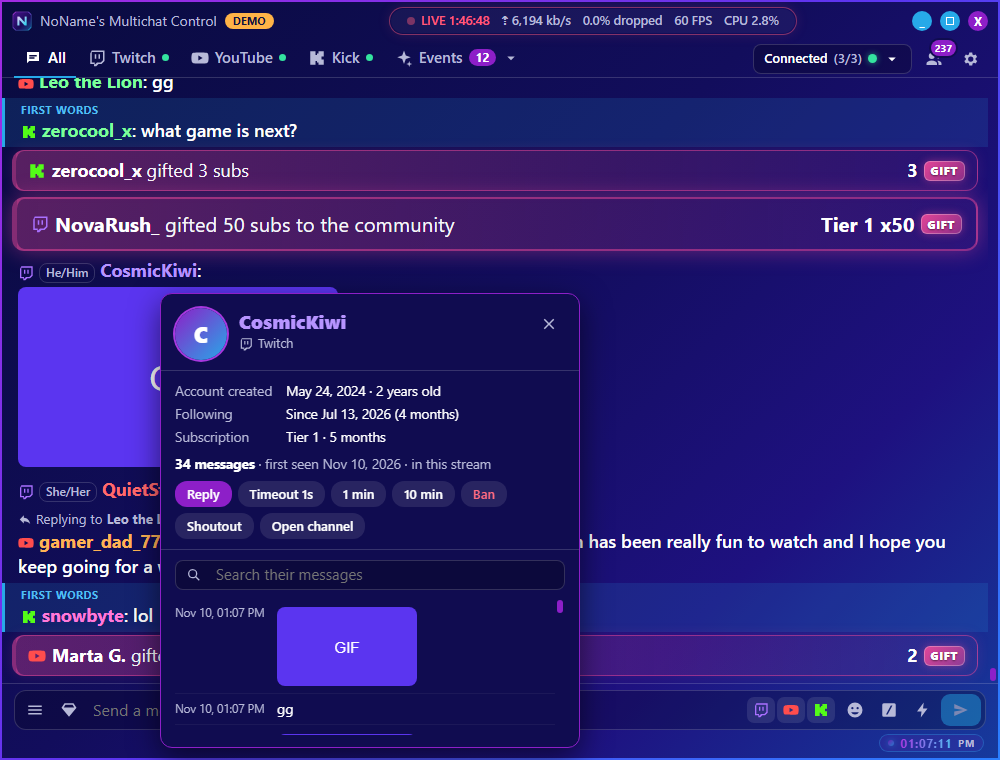
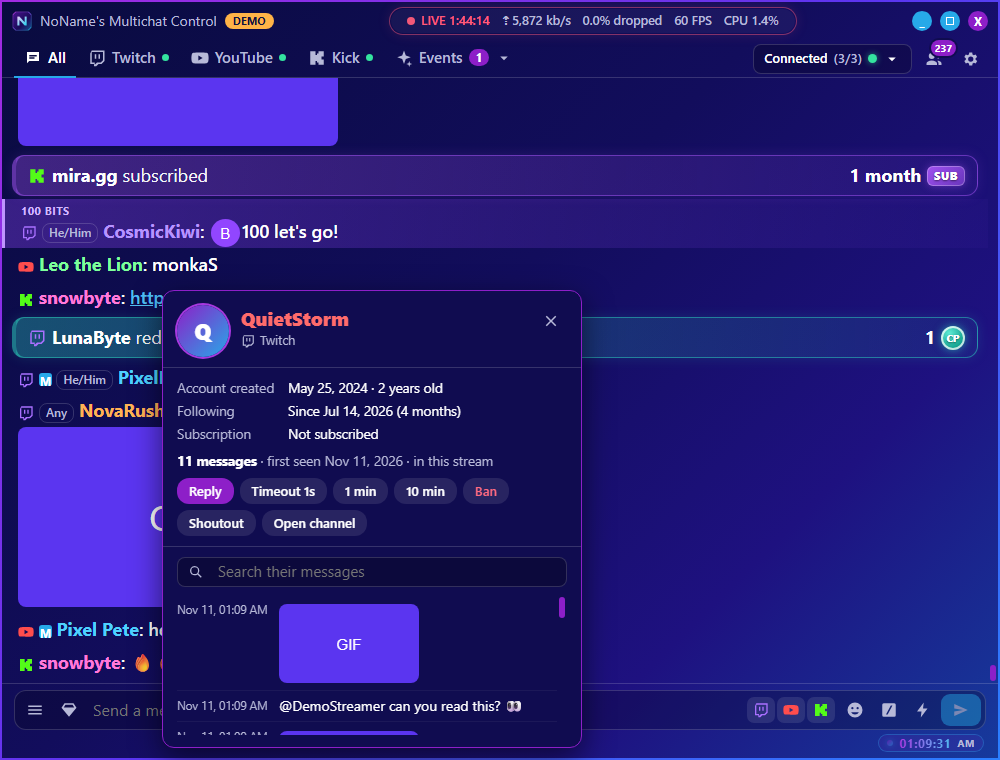
Version 0.2.2: tag highlights, YouTube login for everyone, tray fix
New
- Messages that tag the streamer (@login, @display name, YouTube @handle
  or channel name, Kick username) get a band in their platform's colour:
  purple Twitch, red YouTube, green Kick. Connectors report the names as
  ConnectionState.mentions; ui/lib/mentions.ts matches whole words in any
  letter case and skips the streamer's own messages
- Demo chatters tag @DemoStreamer now and then
- The website shows the latest version, read from GitHub's releases

Fixed
- X set to "Minimize to tray" could stop hiding the window: tao only acts
  when its own visible flag changes, and that flag could drift from the
  real window. set_shown() checks is_visible() on the main thread and
  resyncs, logging when it had to
- A YouTube decline now explains Advanced > Go to MultichatControl

Docs: README explains Google's "unverified app" notice and the 100-user
limit, new screenshots and tour, privacy page mentions turning saved chat
off. Thanks to Zayso for reporting the blocked YouTube login.

diff --git a/docs/index.html b/docs/index.html
@@ -27,14 +27,15 @@
       <p class="lead">Read and write Twitch, YouTube and Kick chat together, see every event as it happens, and run channel actions in one click. A free, open-source Windows app for streamers who go live on several platforms at once.</p>
       <a class="btn" href="https://github.com/nnfisfree/multichat-control/releases/latest">Download for Windows</a>
       <a class="btn ghost" href="privacy/">Privacy Policy</a>
-      <img class="shot" src="media/chat.png" width="1000" height="760" alt="MultichatControl showing Twitch, YouTube and Kick chat merged in one window, with event cards and OBS stats" />
+      <p class="version">Latest version: <a id="version" href="https://github.com/nnfisfree/multichat-control/releases/latest">0.2.2</a></p>
+      <img class="shot" src="media/chat.png" width="1000" height="760" alt="MultichatControl showing Twitch, YouTube and Kick chat merged in one window, with event cards, a highlighted message that tags the streamer, and OBS stats" />
       <p class="muted">Shown in demo mode, with invented chatters.</p>
     </div>
 
     <section>
       <h2>What it does</h2>
       <div class="grid">
-        <div class="card"><h3>💬 One merged chat</h3>Twitch, YouTube and Kick together, with a tab for each. Reply, and choose exactly where each message goes.</div>
+        <div class="card"><h3>💬 One merged chat</h3>Twitch, YouTube and Kick together, with a tab for each. Messages that tag you are highlighted in their platform's colour. Reply, and choose exactly where each message goes.</div>
         <div class="card"><h3>⚡ Every event</h3>Subscriptions, memberships, Super Chats, gifts, raids, redemptions and donations in one list.</div>
         <div class="card"><h3>🛡 Moderation</h3>Delete messages, time out or ban on every platform, in one click.</div>
         <div class="card"><h3>🎨 Made for live</h3>OBS stats in the title bar, eight colour skins, an emote picker and a clock.</div>
@@ -73,5 +74,17 @@
     <a href="https://nonamefound.lol">Store</a>
   </footer>
 </div>
+<script>
+  // Shows the newest release, so this page never needs editing after a release.
+  fetch('https://api.github.com/repos/nnfisfree/multichat-control/releases/latest')
+    .then((r) => (r.ok ? r.json() : null))
+    .then((r) => {
+      if (!r || !r.tag_name) return
+      const el = document.getElementById('version')
+      el.textContent = r.tag_name.replace(/^v/, '')
+      el.href = r.html_url
+    })
+    .catch(() => {})
+</script>
 </body>
 </html>

diff --git a/engine/platforms/youtube/connector.ts b/engine/platforms/youtube/connector.ts
@@ -16,6 +16,7 @@ export class YouTubeConnector implements Connector {
   readonly platform = 'youtube' as const
   private loggedIn = false
   private channelName = ''
+  private mentions: string[] = []
   private liveChatId = ''
   private run = 0
   private cancelStream: (() => void) | null = null
@@ -43,7 +44,10 @@ export class YouTubeConnector implements Connector {
     this.loggedIn = true
     this.ctx.status({ status: 'connecting' })
     const me = await this.api('GET', '/channels', { part: 'snippet', mine: 'true' })
-    this.channelName = me.items?.[0]?.snippet?.title ?? 'YouTube'
+    const mine = me.items?.[0]?.snippet
+    this.channelName = mine?.title ?? 'YouTube'
+    // Viewers tag a channel by its @handle (customUrl), or sometimes by its name.
+    this.mentions = [String(mine?.customUrl ?? '').replace(/^@/, ''), mine?.title ?? ''].filter(Boolean)
     void this.loop(++this.run)
     void this.loadPastBroadcasts()
   }
@@ -102,17 +106,17 @@ export class YouTubeConnector implements Connector {
         this.broadcastId = r.items?.[0]?.id ?? ''
         if (!id) {
           this.liveChatId = ''
-          this.ctx.status({ status: 'waiting', account: this.channelName, detail: 'Waiting for a live broadcast' })
+          this.ctx.status({ status: 'waiting', account: this.channelName, mentions: this.mentions, detail: 'Waiting for a live broadcast' })
           await sleep(OFFLINE_CHECK_MS)
           continue
         }
         this.liveChatId = id
-        this.ctx.status({ status: 'connected', account: this.channelName })
+        this.ctx.status({ status: 'connected', account: this.channelName, mentions: this.mentions })
         await this.follow(id, run)
       } catch (err) {
         if (run !== this.run) return
         const quota = err instanceof HttpError && /quota/i.test(err.message)
-        this.ctx.status({ status: 'reconnecting', account: this.channelName, detail: quota ? 'YouTube daily quota used up. It resets at midnight Pacific Time.' : message(err) })
+        this.ctx.status({ status: 'reconnecting', account: this.channelName, mentions: this.mentions, detail: quota ? 'YouTube daily quota used up. It resets at midnight Pacific Time.' : message(err) })
         await sleep(quota ? 600000 : 30000)
       }
     }

diff --git a/engine/platforms/kick/connector.ts b/engine/platforms/kick/connector.ts
@@ -17,6 +17,7 @@ export class KickConnector implements Connector {
   private userId = 0
   private slug = ''
   private name = ''
+  private mentions: string[] = []
   private socket: KickSocket | null = null
   private found: KickChannel | null = null
   private third: EmoteLookup = new Map()
@@ -50,12 +51,13 @@ export class KickConnector implements Connector {
     this.userId = user?.user_id ?? channel?.broadcaster_user_id
     this.slug = channel?.slug ?? user?.name
     this.name = user?.name ?? this.slug
+    this.mentions = [this.slug, this.name].filter(Boolean)
     await this.connectSocket(++this.run)
   }
 
   private async connectSocket(run: number): Promise<void> {
     try {
-      this.ctx.status({ status: 'connecting', account: this.name, detail: 'Reading Kick channel' })
+      this.ctx.status({ status: 'connecting', account: this.name, mentions: this.mentions, detail: 'Reading Kick channel' })
       const d = await fetchChannel(this.slug)
       if (run !== this.run) return
       this.found = d
@@ -65,13 +67,13 @@ export class KickConnector implements Connector {
       const channels = [`chatrooms.${d.chatroomId}.v2`, `chatrooms.${d.chatroomId}`, `chatroom_${d.chatroomId}`, `channel.${d.channelId}`, `channel_${d.channelId}`]
       this.socket = new KickSocket(fetchRealtime, channels, {
         onEvent: (name, data) => this.onEvent(name, data),
-        onState: (s, detail) => this.ctx.status({ status: s, account: this.name, detail })
+        onState: (s, detail) => this.ctx.status({ status: s, account: this.name, mentions: this.mentions, detail })
       })
       this.socket.start()
       void this.emotes()
     } catch (err) {
       if (run !== this.run) return
-      this.ctx.status({ status: 'reconnecting', account: this.name, detail: `Kick read failed: ${message(err)} Sending still works.` })
+      this.ctx.status({ status: 'reconnecting', account: this.name, mentions: this.mentions, detail: `Kick read failed: ${message(err)} Sending still works.` })
       await sleep(30000)
       if (run === this.run) await this.connectSocket(run)
     }

diff --git a/ui/components/ChatRow.tsx b/ui/components/ChatRow.tsx
@@ -3,6 +3,7 @@ import { plainText } from '../../shared/parts'
 import type { ChatMessage, MessagePart } from '../../shared/types'
 import { Icon, PlatformIcon } from './Icons'
 import { useStore } from '../lib/store'
+import { mentionsStreamer } from '../lib/mentions'
 import { EventCard } from './EventCard'
 
 function Part({ p }: { p: MessagePart }): JSX.Element {
@@ -58,10 +59,12 @@ interface Props {
 /** Chat text is rendered only through React text nodes, so messages cannot inject markup. */
 export const ChatRow = memo(function ChatRow({ m, showPlatform, showTime, onMenu }: Props): JSX.Element {
   const pronoun = useStore((s) => (s.settings?.showPronouns && m.platform === 'twitch' && m.author.login ? s.pronouns[m.author.login] : undefined))
+  // Messages that tag the streamer stand out, in the colour of the platform they came from.
+  const tagged = useStore((s) => mentionsStreamer(m, s.statuses[m.platform]?.mentions))
   if (m.divider) return <div className="history-divider" role="separator"><span>{m.divider}</span></div>
   if (m.event) return <div className="row kind-event"><EventCard e={m.event} /></div>
   return (
-    <div className={`row kind-${m.kind}${m.firstTime ? ' first' : ''}${m.effect ? ` effect-${m.effect}` : ''}`} onContextMenu={(e) => onMenu(e, m)}>
+    <div className={`row kind-${m.kind}${m.firstTime ? ' first' : ''}${m.effect ? ` effect-${m.effect}` : ''}${tagged ? ` mention mention-${m.platform}` : ''}`} onContextMenu={(e) => onMenu(e, m)}>
       {m.reply && (
         <div className="reply"><Icon.reply /> Replying to <b>{m.reply.author}</b>: {m.reply.text}</div>
       )}

diff --git a/engine/demo.ts b/engine/demo.ts
@@ -44,7 +44,7 @@ const LINES = [
   'dude haha', 'that was insane', 'nnfHype nnfHype nnfHype', 'gg', 'KEKW', 'catJAM catJAM', 'what game is next?',
   'first time here, love the stream', 'https://example.com/clip check this out', 'PogChamp that play', 'lol', 'KICKHYPE lets go',
   'how long have you been streaming today? this run has been really fun to watch and I hope you keep going for a while',
-  '🔥🔥🔥', 'monkaS', 'hello from the demo!'
+  '🔥🔥🔥', 'monkaS', 'hello from the demo!', '@DemoStreamer can you read this? 👀', '@demostreamer what are your settings?'
 ]
 const COLORS = ['#4fd1ff', '#ff7ad9', '#7dff9b', '#ffb454', '#b794ff', '#ff6b6b']
 
@@ -153,7 +153,7 @@ export class DemoConnector implements Connector {
     // Platforms connect one after another, as they do for real, so the progress bar shows.
     this.ctx.status({ status: 'connecting' })
     const order = ['twitch', 'youtube', 'kick'].indexOf(this.platform)
-    this.timers.push(setTimeout(() => this.ctx.status({ status: 'connected', account: 'DemoStreamer' }), 2500 + order * 1800))
+    this.timers.push(setTimeout(() => this.ctx.status({ status: 'connected', account: 'DemoStreamer', mentions: ['DemoStreamer'] }), 2500 + order * 1800))
     // The streamer testing their own reward, so the TEST tag and Clear menu have something to show.
     if (this.platform === 'twitch') {
       this.timers.push(setTimeout(() => this.ctx.event({

diff --git a/ui/styles/theme.css b/ui/styles/theme.css
@@ -136,6 +136,12 @@ h2, h3 { margin: 0; }
 .row.kind-cheer .tag { color: #d2b8ff; }
 .row.kind-highlight { background: rgba(var(--purple-rgb), 0.3); border-left: 3px solid var(--purple-2); }
 .row.kind-highlight .tag { color: #e0a8ff; }
+/* A viewer tagged the streamer: a soft band in the platform's own colour, fading out so the skin
+   still shows through, and a solid stripe on the left. */
+.row.mention { --pf: var(--twitch); background: linear-gradient(90deg, color-mix(in srgb, var(--pf) 24%, transparent), color-mix(in srgb, var(--pf) 7%, transparent) 75%); border-left: 3px solid var(--pf); box-shadow: inset 0 1px 0 color-mix(in srgb, var(--pf) 18%, transparent), inset 0 -1px 0 color-mix(in srgb, var(--pf) 18%, transparent); }
+.row.mention-youtube { --pf: var(--youtube); }
+.row.mention-kick { --pf: var(--kick); }
+.row.mention:hover { background: linear-gradient(90deg, color-mix(in srgb, var(--pf) 32%, transparent), color-mix(in srgb, var(--pf) 11%, transparent) 75%); }
 .row.effect-message-effect { background: linear-gradient(90deg, rgba(var(--blue-rgb), 0.28), rgba(var(--purple-rgb), 0.28)); }
 .row.effect-giant .emote:last-of-type { height: 5em; margin: 2px 2px; }
 .gif { display: block; max-width: min(320px, 100%); max-height: 200px; margin: 4px 0 2px; border-radius: 8px; }

diff --git a/engine/platforms/twitch/connector.ts b/engine/platforms/twitch/connector.ts
@@ -32,6 +32,7 @@ export class TwitchConnector implements Connector {
   private userId = ''
   private login_ = ''
   private displayName = ''
+  private mentions: string[] = []
   private sub: EventSub | null = null
   private badges = new Map<string, Badge>()
   private third: EmoteLookup = new Map()
@@ -90,13 +91,14 @@ export class TwitchConnector implements Connector {
     this.login_ = who.login
     const users = await this.helix('GET', '/users', { id: who.user_id })
     this.displayName = users.data?.[0]?.display_name ?? who.login
+    this.mentions = [who.login, this.displayName]
     this.avatar = smallAvatar(users.data?.[0]?.profile_image_url)
     this.emoteCache = await loadEmoteCache(`twitch-${who.user_id}`)
     await Promise.all([this.loadBadges(), this.loadThirdParty(), this.loadManageable(), this.loadCheers()])
     this.sub = new EventSub({
       onSession: (id) => this.subscribeAll(id),
       onNotification: (type, id, e) => this.onEvent(type, id, e),
-      onState: (s, detail) => this.ctx.status({ status: s, account: this.displayName, detail })
+      onState: (s, detail) => this.ctx.status({ status: s, account: this.displayName, mentions: this.mentions, detail })
     })
     this.sub.start()
     if (this.checkTimer) clearInterval(this.checkTimer)

diff --git a/docs/privacy/index.html b/docs/privacy/index.html
@@ -54,7 +54,7 @@
           <thead><tr><th>What</th><th>Why</th><th>How long</th></tr></thead>
           <tbody>
             <tr><td>Your login (access and refresh tokens)</td><td>So you stay logged in</td><td>Until you log out. Encrypted with Windows' own data protection, so only your Windows account can read it</td></tr>
-            <tr><td>Chat of your recent streams (names and messages from your chat)</td><td>So you can read what you missed, and see what a viewer said before</td><td>The last 5 streams. Older streams are deleted automatically</td></tr>
+            <tr><td>Chat of your recent streams (names and messages from your chat)</td><td>So you can read what you missed, and see what a viewer said before</td><td>The last 5 streams. Older streams are deleted automatically. You can turn this off in Settings → Chat</td></tr>
             <tr><td>Recent events (subs, gifts, Super Chats, donations…)</td><td>The Events list</td><td>Until you clear them in the app</td></tr>
             <tr><td>Settings and a technical log</td><td>So the app works and problems can be found</td><td>Until you delete them</td></tr>
           </tbody>

diff --git a/ui/lib/mentions.ts b/ui/lib/mentions.ts
@@ -1,0 +1,20 @@
+import { plainText } from '../../shared/parts'
+import type { ChatMessage } from '../../shared/types'
+
+const patterns = new WeakMap<string[], RegExp | null>()
+const escape = (s: string): string => s.replace(/[.*+?^${}()|[\]\\]/g, '\\$&')
+
+/** "@name" as a whole word, for any of the streamer's names, in any letter case. */
+function pattern(names: string[]): RegExp | null {
+  if (!patterns.has(names)) {
+    const list = [...new Set(names.map((n) => n.trim()).filter(Boolean))].sort((a, b) => b.length - a.length).map(escape)
+    patterns.set(names, list.length ? new RegExp(`(?:^|[^\\p{L}\\p{N}_])@(?:${list.join('|')})(?![\\p{L}\\p{N}_])`, 'iu') : null)
+  }
+  return patterns.get(names) ?? null
+}
+
+/** True when a viewer tagged the streamer, e.g. "@nonamefound are you there?". The streamer's own messages never count. */
+export function mentionsStreamer(m: ChatMessage, names: string[] | undefined): boolean {
+  if (!names?.length || m.author.isBroadcaster || m.kind === 'system') return false
+  return pattern(names)?.test(plainText(m.parts)) ?? false
+}

diff --git a/docs/style.css b/docs/style.css
@@ -46,6 +46,9 @@ header.top nav a:hover, header.top nav a[aria-current] { color: #fff; }
 .btn:hover { color: #fff; filter: brightness(1.1); }
 .btn.ghost { background: transparent; box-shadow: inset 0 0 0 1px var(--line); margin: 8px 0 0 8px; }
 
+.version { margin: 14px 0 0; color: var(--muted); font-size: 15px; }
+.version a { color: #fff; font-weight: 700; }
+
 .shot { display: block; width: 100%; height: auto; margin: 34px 0 10px; border-radius: 14px; border: 1px solid var(--line); box-shadow: 0 20px 60px rgba(0, 0, 0, 0.5); }
 
 section { margin: 40px 0; }

diff --git a/shared/types.ts b/shared/types.ts
@@ -177,6 +177,8 @@ export interface ConnectionState {
   platform: Platform
   status: ConnectionStatus
   account?: string
+  /** The names viewers tag the streamer with (without @), so those messages can be highlighted. */
+  mentions?: string[]
   detail?: string
   /** Shown while Twitch device login waits for the user. */
   device?: { code: string; url: string }

diff --git a/core/src/window.rs b/core/src/window.rs
@@ -18,11 +18,29 @@ fn main_window(app: &AppHandle) -> Option<WebviewWindow> {
 
 /// Brings the window back from the tray or the taskbar.
 pub fn show(app: &AppHandle) {
-    if let Some(w) = main_window(app) {
-        let _ = w.unminimize();
-        let _ = w.show();
-        let _ = w.set_focus();
-        apply_opacity(&w);
+    let handle = app.clone();
+    let _ = app.run_on_main_thread(move || {
+        if let Some(w) = main_window(&handle) {
+            let _ = w.unminimize();
+            set_shown(&w, true);
+            let _ = w.set_focus();
+            apply_opacity(&w);
+        }
+    });
+}
+
+/// Shows or hides the window, and checks Windows really did it. Tauri only acts when its own
+/// record of the window changes, and that record can drift from what is on screen (a hidden
+/// window shown by Windows itself, for one): then hide() or show() silently does nothing, which
+/// left the X button dead when it was set to the tray. Flipping the record and back makes Tauri
+/// act again. Must run on the main thread, where hide() and show() take effect at once.
+fn set_shown(w: &WebviewWindow, visible: bool) {
+    let flip = |v: bool| if v { w.show() } else { w.hide() };
+    let _ = flip(visible);
+    if w.is_visible().unwrap_or(visible) != visible {
+        log("window", &format!("{} did nothing, so the window state was resynced", if visible { "show" } else { "hide" }));
+        let _ = flip(!visible);
+        let _ = flip(visible);
     }
 }
 
@@ -116,10 +134,13 @@ fn ensure_tray(app: &AppHandle) -> tauri::Result<()> {
 #[tauri::command]
 pub fn window_to_tray(app: AppHandle) -> Result<(), String> {
     ensure_tray(&app).map_err(|e| e.to_string())?;
-    if let Some(w) = main_window(&app) {
-        let _ = w.hide();
-    }
-    Ok(())
+    let handle = app.clone();
+    app.run_on_main_thread(move || {
+        if let Some(w) = main_window(&handle) {
+            set_shown(&w, false);
+        }
+    })
+    .map_err(|e| e.to_string())
 }
 
 /// Asks the engine to save what's waiting and exit. If it can't answer, the app exits anyway.
